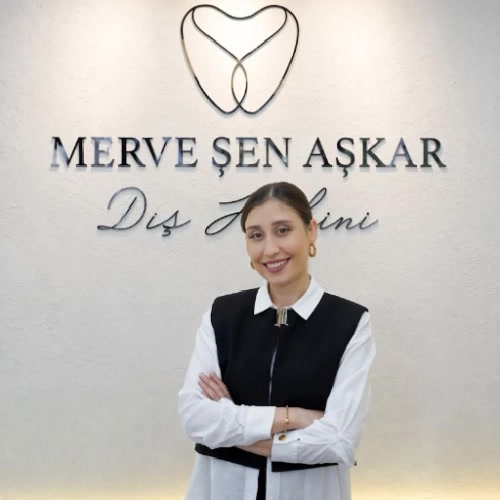
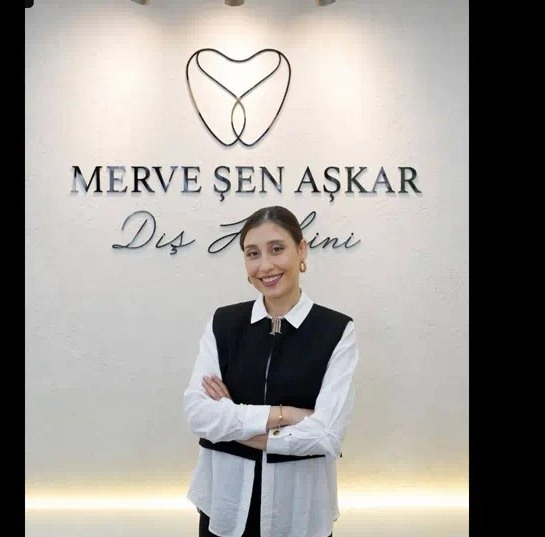
Add Google Maps clinic and doctor photos
Crop owner photos from the Maps gallery into the site: reception, treatment rooms, waiting area, exterior, and additional doctor portraits.

diff --git a/src/lib/content/about.ts b/src/lib/content/about.ts
@@ -50,13 +50,16 @@ export const doctorBio = aboutPage.sections
 
 export const clinicGallery = [
   { src: "/images/clinic/reception.jpg", alt: "Klinik karşılama alanı, Merve Şen Aşkar tabelası" },
-  { src: "/images/clinic/treatment-room.jpg", alt: "Tedavi odası ve diş üniti" },
+  { src: "/images/clinic/treatment-room.jpg", alt: "Tedavi odası, neon diş panosu ve ünit" },
+  { src: "/images/clinic/xray-room.jpg", alt: "Tedavi odası ve panoramik röntgen ekranı" },
   { src: "/images/clinic/waiting.jpg", alt: "Bekleme alanı" },
   { src: "/images/clinic/exterior.jpg", alt: "Muayenehane dış görünümü, Bayraklı" },
 ];
 
 export const doctorPortraits = [
-  { src: "/images/doctor/portrait-2.jpg", alt: "Dt. Merve Şen Aşkar klinik ortamında" },
+  { src: "/images/doctor/portrait-2.jpg", alt: "Dt. Merve Şen Aşkar, beyaz önlükle klinikte" },
+  { src: "/images/doctor/portrait-3.jpg", alt: "Dt. Merve Şen Aşkar" },
+  { src: "/images/doctor/portrait-4.jpg", alt: "Dt. Merve Şen Aşkar klinik ortamında" },
 ];
 
 export const INSTAGRAM_HANDLE = "dtmervesen";
